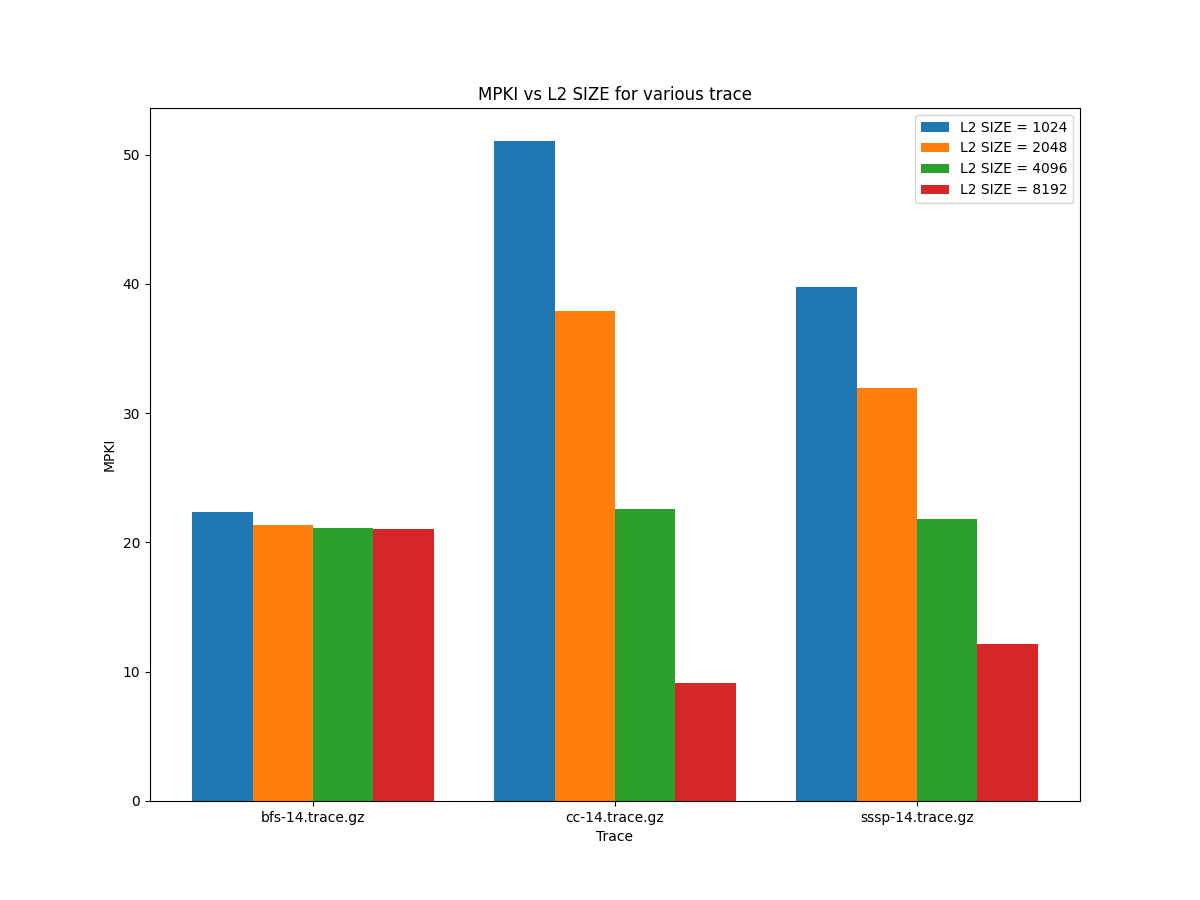
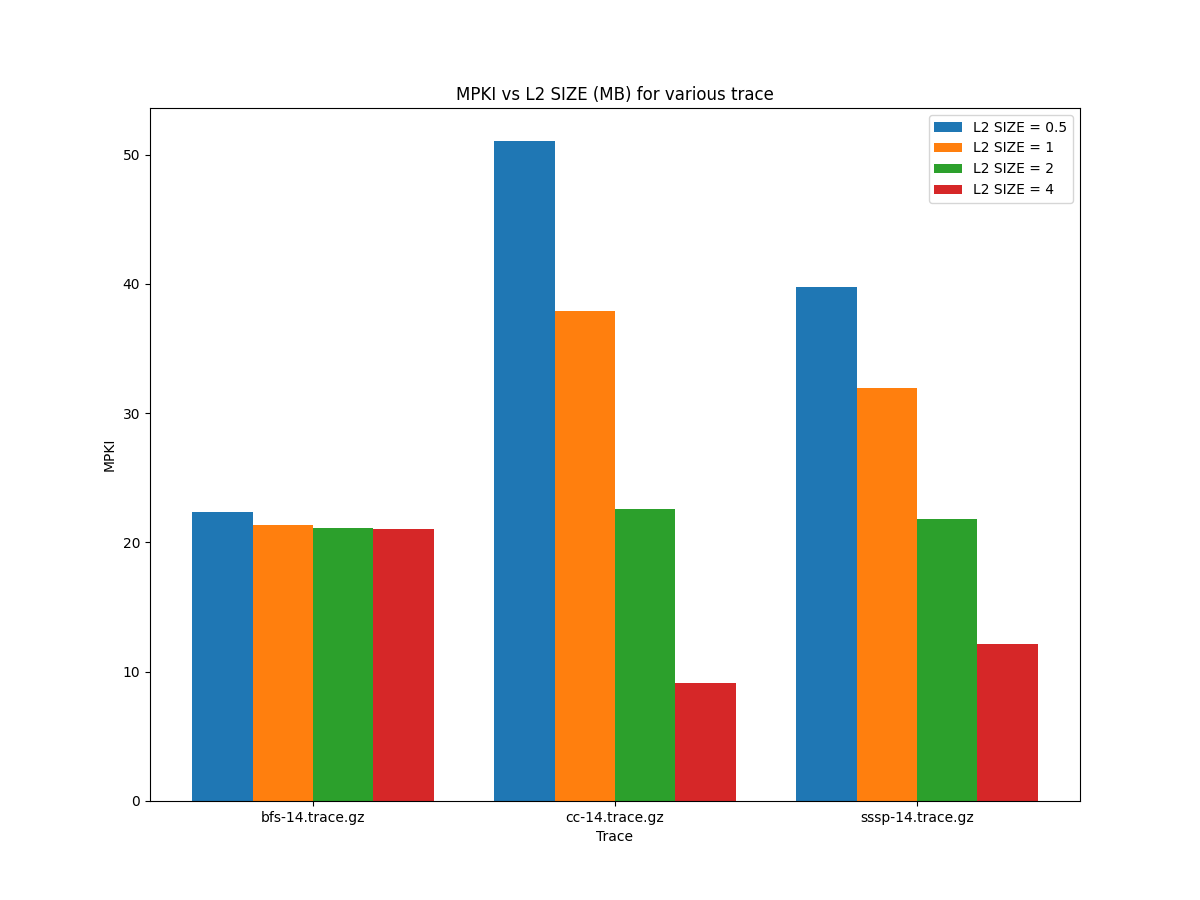
Fixed size change plots

Changed region(s): [[0.7708, 0.1244, 0.8942, 0.2178], [0.37, 0.0933, 0.6475, 0.1244]]

diff --git a/data/generate_graph.py b/data/generate_graph.py
@@ -5,6 +5,7 @@ import numpy as np
 # varying LLC SIZE
 def plot_llc_size():
     llcsizes=[2048,4096,8192,16384,0]
+    llc_sizes=[2,4,8,16,0]
     traces=['bfs-14.trace.gz','cc-14.trace.gz','sssp-14.trace.gz']
     baselines=np.zeros(shape=(1,len(traces)))
     speedups=np.zeros(shape=(len(traces),len(llcsizes)))
@@ -29,11 +30,11 @@ def plot_llc_size():
     x_axis = np.arange(len(traces))
     plt.figure(figsize=(12,8))
     for i in range(len(llcsizes)):
-        plt.bar(x_axis-0.3+0.15*i, speedups[:,i], 0.15, label=f"LLC SIZE = {llcsizes[i]}")
+        plt.bar(x_axis-0.3+0.15*i, speedups[:,i], 0.15, label=f"LLC SIZE = {llc_sizes[i]}")
     plt.xticks(x_axis,traces)
     plt.ylabel("Speedup")
     plt.xlabel("Trace")
-    plt.title("Speedup vs LLC SIZE for various trace")
+    plt.title("Speedup vs LLC SIZE (MB) for various trace")
     plt.legend()
     plt.savefig("figures/llc_sizes_speedup.png")
     plt.show()
@@ -41,11 +42,11 @@ def plot_llc_size():
 
     plt.figure(figsize=(12,8))
     for i in range(len(llcsizes)-1):
-        plt.bar(x_axis-0.3+0.2*i, mpkis[:,i], 0.2, label=f"LLC SIZE = {llcsizes[i]}")
+        plt.bar(x_axis-0.3+0.2*i, mpkis[:,i], 0.2, label=f"LLC SIZE = {llc_sizes[i]}")
     plt.xticks(x_axis,traces)
     plt.ylabel("MPKI")
     plt.xlabel("Trace")
-    plt.title("MPKI vs LLC SIZE for various trace")
+    plt.title("MPKI vs LLC SIZE (MB) for various trace")
     plt.legend()
     plt.savefig("figures/llc_sizes_mpki.png")
     plt.show()
@@ -55,6 +56,7 @@ def plot_llc_size():
 # varying L2 SIZE
 def plot_l2_size():
     l2sizes=[1024,2048,4096,8192,0]
+    l2_sizes=[0.5,1,2,4,0]
     traces=['bfs-14.trace.gz','cc-14.trace.gz','sssp-14.trace.gz']
     baselines=np.zeros(shape=(1,len(traces)))
     speedups=np.zeros(shape=(len(traces),len(l2sizes)))
@@ -79,11 +81,11 @@ def plot_l2_size():
     x_axis = np.arange(len(traces))
     plt.figure(figsize=(12,8))
     for i in range(len(l2sizes)):
-        plt.bar(x_axis-0.3+0.15*i, speedups[:,i], 0.15, label=f"L2 SIZE = {l2sizes[i]}")
+        plt.bar(x_axis-0.3+0.15*i, speedups[:,i], 0.15, label=f"L2 SIZE = {l2_sizes[i]}")
     plt.xticks(x_axis,traces)
     plt.ylabel("Speedup")
     plt.xlabel("Trace")
-    plt.title("Speedup vs L2 SIZE for various trace")
+    plt.title("Speedup vs L2 SIZE (MB) for various trace")
     plt.legend()
     plt.savefig("figures/l2_sizes_speedup.png")
     plt.show()
@@ -91,11 +93,11 @@ def plot_l2_size():
 
     plt.figure(figsize=(12,9))
     for i in range(len(l2sizes)-1):
-        plt.bar(x_axis-0.3+0.2*i, mpkis[:,i], 0.2, label=f"L2 SIZE = {l2sizes[i]}")
+        plt.bar(x_axis-0.3+0.2*i, mpkis[:,i], 0.2, label=f"L2 SIZE = {l2_sizes[i]}")
     plt.xticks(x_axis,traces)
     plt.ylabel("MPKI")
     plt.xlabel("Trace")
-    plt.title("MPKI vs L2 SIZE for various trace")
+    plt.title("MPKI vs L2 SIZE (MB) for various trace")
     plt.legend()
     plt.savefig("figures/l2_sizes_mpki.png")
     plt.show()
@@ -257,4 +259,5 @@ def plot_block():
 # plot_repl("Inclusive")
 # plot_repl("NonInclusive")
 # plot_repl("Exclusive")
-plot_incl()
+plot_l2_size()
+plot_llc_size()
